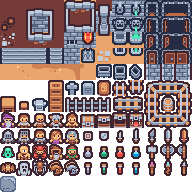
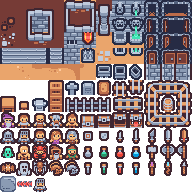
feat(game): FireFlame enemy added. First version - still in progress.

Changed region(s): [[0.0625, 0.9062, 0.25, 1.0]]

diff --git a/fire_flame_enemy.py b/fire_flame_enemy.py
@@ -1,0 +1,112 @@
+import pygame
+import settings
+from custom_draw_sprite import CustomDrawSprite
+
+
+class FireFlameEnemy(CustomDrawSprite):
+    def __init__(self, image, position, groups, speed, fire_length, motion_schedule, moving_obstacle_sprites):
+        super().__init__(groups)
+        self.base_image = image
+        self.image = self.get_merged_image(2)
+        self.rect = self.image.get_rect(topleft=position)
+        self.hit_box = self.rect
+
+        # Create movement variables
+        self.is_moving = False
+        self.movement_vector = pygame.math.Vector2((-1, 0))
+        self.speed = speed
+        self.max_fire_length = settings.TILE_SIZE * fire_length
+
+        # Create motion variables
+        self.motion_schedule = motion_schedule
+        self.step_counter = 0
+        self.motion_index = 0
+        self.motion_switching_threshold = self.motion_schedule[self.motion_index]
+
+        # Left and right positions of the flame
+        self.max_left_flame_position = self.rect.left
+        self.max_right_flame_position = self.rect.right
+
+        # Real position is required to store the real distance, which is then cast to integer
+        self.real_x_position = float(self.hit_box.x)
+
+    def get_merged_image(self, count):
+        base_image = pygame.transform.scale(self.base_image, (settings.TILE_SIZE, settings.TILE_SIZE))
+        merged = pygame.surface.Surface((settings.TILE_SIZE*count, settings.TILE_SIZE))
+        merged = merged.convert_alpha()
+        merged.fill((0, 0, 0, 0))
+
+        for index in range(count):
+            merged.blit(base_image, (settings.TILE_SIZE * index, 0))
+
+        return merged
+
+    def custom_draw(self, game_surface, offset):
+        # Draw a fire (line)
+        start_position = pygame.Vector2((self.rect.right, self.rect.centery)) + offset
+        end_position = pygame.Vector2((self.max_right_flame_position, self.rect.centery)) + offset
+        if start_position.x < end_position.x:
+            pygame.draw.line(game_surface, (247, 75, 75), start_position, end_position, 20)
+
+        # Draw sprite
+        offset_position = self.rect.topleft + offset
+        game_surface.blit(self.image, offset_position)
+
+    def move(self):
+        # Calculate real y position
+        self.real_x_position += float(self.movement_vector.x * self.speed)
+
+        # Start position and fire length
+        if self.real_x_position < self.max_left_flame_position - self.max_fire_length:
+            self.real_x_position = self.max_left_flame_position - self.max_fire_length
+            self.movement_vector.x = self.movement_vector.x * -1
+        elif self.real_x_position > self.max_left_flame_position:
+            self.real_x_position = self.max_left_flame_position
+            self.movement_vector.x = self.movement_vector.x * -1
+            # Stop the moving
+            self.is_moving = False
+
+        # Cast real position to integer
+        self.hit_box.x = int(self.real_x_position)
+
+        # Create a new image
+        if self.hit_box.x % settings.TILE_SIZE == 0:
+            tail_length = (self.max_right_flame_position - self.hit_box.x) // settings.TILE_SIZE
+            if self.movement_vector.x > 0:
+                tail_length -= 1
+            print(f'now {tail_length}')
+            # Get a new image
+            self.image = self.get_merged_image(tail_length)
+            # Change rectangle and hit_box
+            current_top_left_position = self.rect.topleft
+            self.rect = self.image.get_rect(topleft=current_top_left_position)
+            self.hit_box = self.rect
+
+        # Set the movement offset
+        self.rect.center = self.hit_box.center
+
+    def change_motion(self):
+        # Change motion only if threshold exceeded
+        if self.step_counter > self.motion_switching_threshold:
+            # Reset counter and increase motion index
+            self.step_counter = 0
+            self.motion_index += 1
+            # If it's the last motion state - start from the first state (index = 0)
+            if self.motion_index >= len(self.motion_schedule):
+                self.motion_index = 0
+
+            # Set a new threshold from motion schedule
+            self.motion_switching_threshold = self.motion_schedule[self.motion_index]
+
+            # Start the moving
+            self.is_moving = True
+
+        # Increase step counter
+        self.step_counter += 1
+
+    def update(self):
+        if self.is_moving:
+            self.move()
+        else:
+            self.change_motion()
+

diff --git a/level.py b/level.py
@@ -11,6 +11,7 @@ from ground import Ground
 from diamond import Diamond
 from spider_enemy import SpiderEnemy
 from ghost_enemy import GhostEnemy
+from fire_flame_enemy import FireFlameEnemy
 from player import Player
 from exit_point import ExitPoint
 from blast_effect import BlastEffect
@@ -171,6 +172,34 @@ class Level:
 
                 GhostEnemy(enemy_ghost.image, (x, y), [self.top_layer_sprites, self.enemy_sprites],
                            speed, self.obstacle_map.items)
+
+        enemy_enemy_fire_flame_layer = self.tmx_data.get_layer_by_name('enemy-fire-flame')
+        for enemy_fire_flame in enemy_enemy_fire_flame_layer:
+            if enemy_fire_flame.visible:
+                tile_x = int(enemy_fire_flame.x // self.tmx_data.tilewidth)
+                tile_y = int(enemy_fire_flame.y // self.tmx_data.tileheight)
+                x = tile_x * settings.TILE_SIZE
+                y = tile_y * settings.TILE_SIZE
+
+                if enemy_fire_flame.properties.get('speed') is None:
+                    speed = float(game_helper.calculate_ratio(enemy_enemy_fire_flame_layer.properties.get('speed')))
+                else:
+                    speed = float(game_helper.calculate_ratio(enemy_fire_flame.properties.get('speed')))
+
+                if enemy_fire_flame.properties.get('fire_length') is None:
+                    fire_length = int(enemy_enemy_fire_flame_layer.properties.get('fire_length'))
+                else:
+                    fire_length = int(enemy_fire_flame.properties.get('fire_length'))
+
+                if enemy_fire_flame.properties.get('motion_schedule') is None:
+                    motion_schedule = enemy_enemy_fire_flame_layer.properties.get('motion_schedule')
+                else:
+                    motion_schedule = enemy_fire_flame.properties.get('motion_schedule')
+                # Convert string to tuple
+                motion_schedule = tuple(map(int, motion_schedule.split(',')))
+
+                FireFlameEnemy(enemy_fire_flame.image, (x, y), [self.top_layer_sprites, self.enemy_sprites], speed,
+                                fire_length, motion_schedule, self.moving_obstacle_sprites)
 
     def run(self):
         # Run an update method foreach sprite from the group

diff --git a/spider_enemy.py b/spider_enemy.py
@@ -14,7 +14,7 @@ class SpiderEnemy(CustomDrawSprite):
         self.is_moving = False
         self.movement_vector = pygame.math.Vector2((0, 1))
         self.speed = speed
-        self.min_y_position = self.rect.topleft[1]
+        self.min_y_position = self.rect.top
         self.max_net_length = settings.TILE_SIZE * net_length
 
         # Create motion variables
